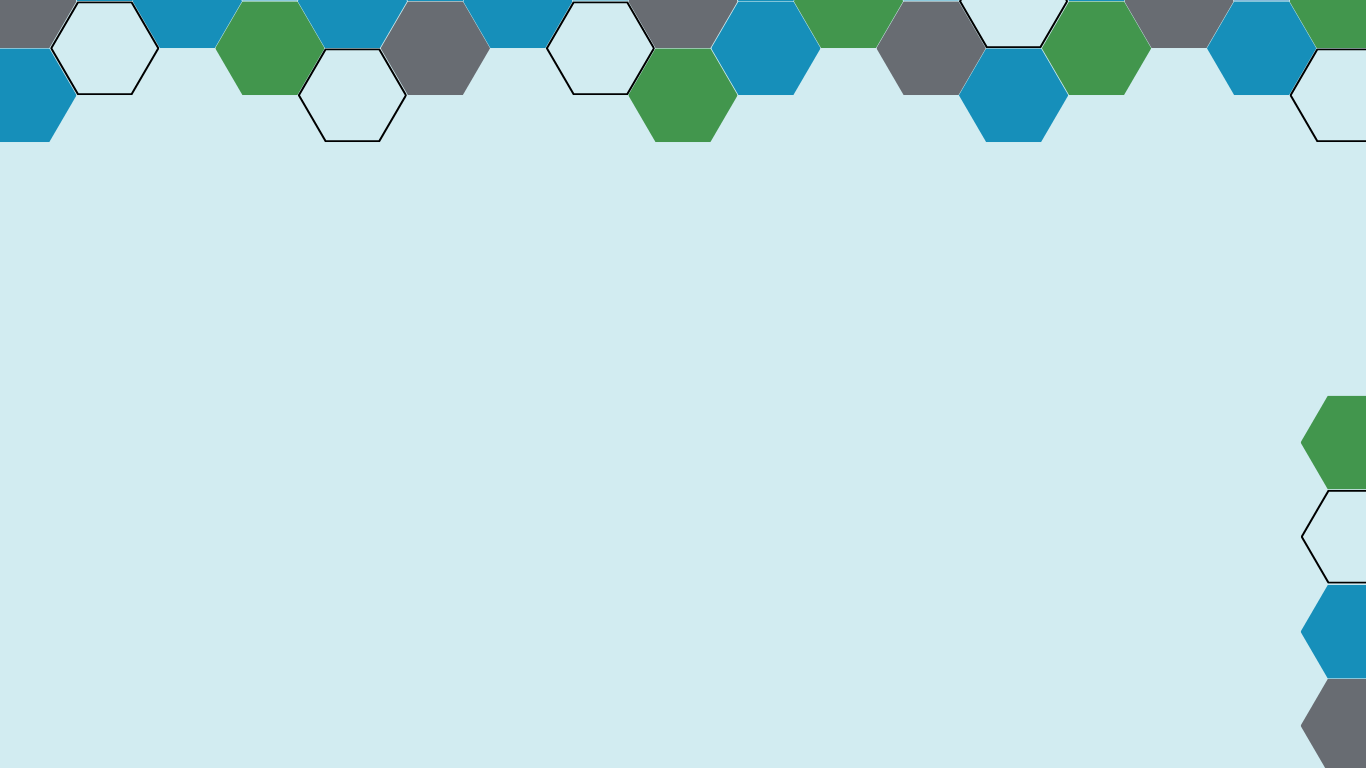
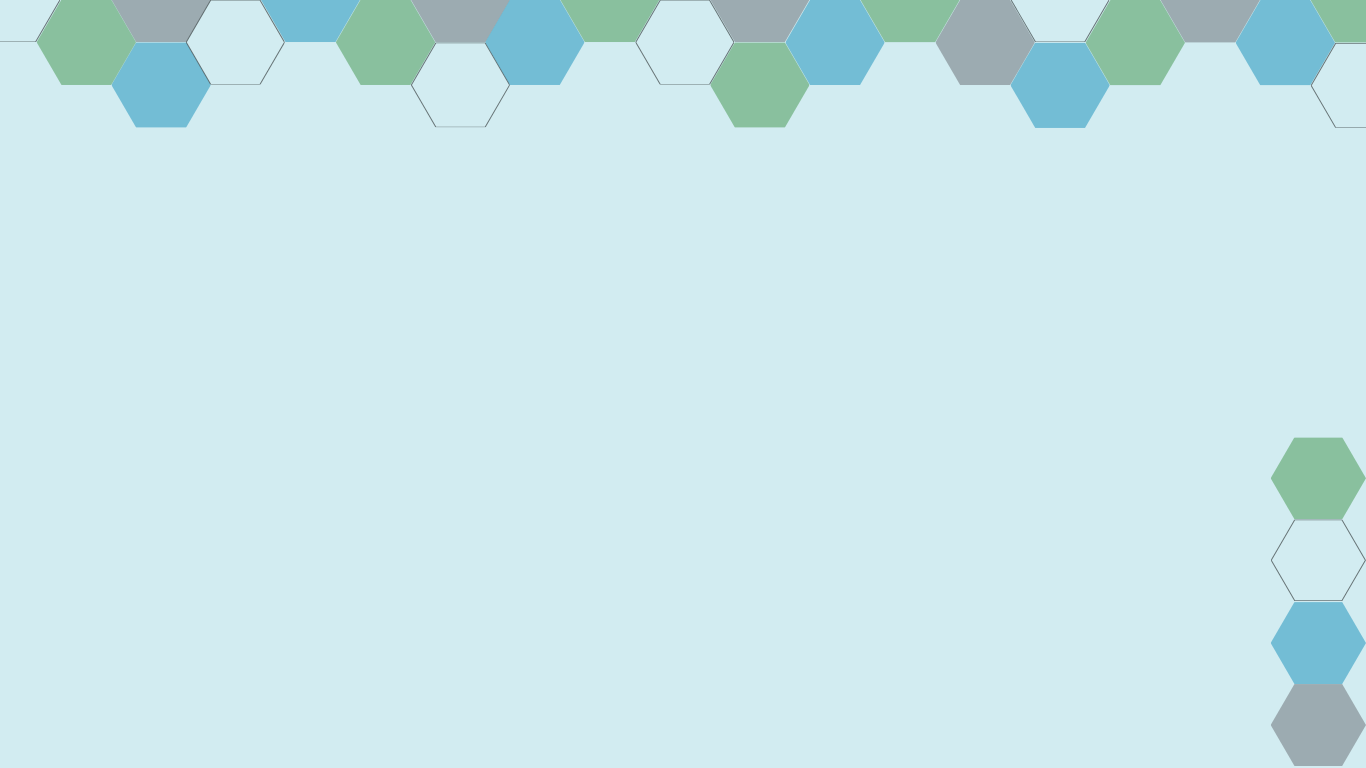
backgrounds changes

diff --git a/src/db/db.js b/src/db/db.js
@@ -162,29 +162,29 @@ const db = [
       "A 5 minutos de la Escuela de Estudios Superiores de Totolapan (UAEM) Calles de 8 metros"
 
   },
-  {
-    nombre: "Valle Verde",
-    municipio: "Totoloapan",
-    estado: "Morelos",
-    metrosCuadrados: [200],
-    costoPorMetroCuadrado: 900,
-    tipoEscritura: "Privada",
-    precio: 180000,
-    descripcion:
-      'Gran oportunidad de inversión en nuestros lotes de nombre "Valle Verde" ubicados en el municipio de Totoloapan, Estado de Morelos.Estos terrenos rústicos ofrecen un potencial prometedor para el futuro.El costo por metro cuadrado es de 900 pesos, con facilidades de pago.El enganche es del 30%, ofrecemos opciones de financiamiento a 12, 24 y 36 meses sin intereses.Aprovecha esta oportunidad para tener tu casa de vacaciones, tu nuevo hogar o incluso una nueva fuente de ingresos.',
+  // {
+  //   nombre: "Valle Verde",
+  //   municipio: "Totoloapan",
+  //   estado: "Morelos",
+  //   metrosCuadrados: [200],
+  //   costoPorMetroCuadrado: 900,
+  //   tipoEscritura: "Privada",
+  //   precio: 180000,
+  //   descripcion:
+  //     'Gran oportunidad de inversión en nuestros lotes de nombre "Valle Verde" ubicados en el municipio de Totoloapan, Estado de Morelos.Estos terrenos rústicos ofrecen un potencial prometedor para el futuro.El costo por metro cuadrado es de 900 pesos, con facilidades de pago.El enganche es del 30%, ofrecemos opciones de financiamiento a 12, 24 y 36 meses sin intereses.Aprovecha esta oportunidad para tener tu casa de vacaciones, tu nuevo hogar o incluso una nueva fuente de ingresos.',
 
-    servicios: {
-      electricidad: false
-    },
-    coordenadas: [18.979909, -98.951170],
-    enganche: 54000,
-    mensualidades: [12, 24, 36],
-    id: 7,
-    imagenes: ['https://res.cloudinary.com/dod4a1pxx/image/upload/v1706748082/setroc/terrenos/valle/fv9qm6bfqven0nk5eq4x.png', 'https://res.cloudinary.com/dod4a1pxx/image/upload/v1706748081/setroc/terrenos/valle/gooxby4kt6yrxtlhsqwn.png', 'https://res.cloudinary.com/dod4a1pxx/image/upload/v1706748081/setroc/terrenos/valle/n6ydhoo3spjhqhehsbti.png', 'https://res.cloudinary.com/dod4a1pxx/image/upload/v1706748081/setroc/terrenos/valle/erahkgfiywi2lgfi7dzy.png'],
-    amenidades: "A 5 minutos de la Escuela de Estudios Superiores de Totolapan(UAEM), A 1 hora con 30 minutos de CDMX, Calles de 8 metros"
+  //   servicios: {
+  //     electricidad: false
+  //   },
+  //   coordenadas: [18.979909, -98.951170],
+  //   enganche: 54000,
+  //   mensualidades: [12, 24, 36],
+  //   id: 7,
+  //   imagenes: ['https://res.cloudinary.com/dod4a1pxx/image/upload/v1706748082/setroc/terrenos/valle/fv9qm6bfqven0nk5eq4x.png', 'https://res.cloudinary.com/dod4a1pxx/image/upload/v1706748081/setroc/terrenos/valle/gooxby4kt6yrxtlhsqwn.png', 'https://res.cloudinary.com/dod4a1pxx/image/upload/v1706748081/setroc/terrenos/valle/n6ydhoo3spjhqhehsbti.png', 'https://res.cloudinary.com/dod4a1pxx/image/upload/v1706748081/setroc/terrenos/valle/erahkgfiywi2lgfi7dzy.png'],
+  //   amenidades: "A 5 minutos de la Escuela de Estudios Superiores de Totolapan(UAEM), A 1 hora con 30 minutos de CDMX, Calles de 8 metros"
 
 
-  },
+  // },
   {
     nombre: "Zacanco",
     municipio: "Ahuatlan",

diff --git a/src/pages/contactanos/Contacto.jsx b/src/pages/contactanos/Contacto.jsx
@@ -1,17 +1,17 @@
-import React from "react";
 import TextFieldComponent from "../../components/styledComponents/textfield/TextfieldComponent";
 import { Button, FormControl } from "@mui/material";
 import TextAreaComponent from "../../components/styledComponents/textfield/TextareaComponent";
+import './Contacto.css'
 
 const ContactoPage = () => {
   return (
     <div className="w-full flex h-full flex-col">
       <div className="opacity-75 w-full">
-        <div className="h-80 w-full bg-p1"></div>
+        <div className="h-80 w-full panel3"></div>
       </div>
 
       <div className="flex justify-center items-center h-full bg-p3 p-4">
-        <div className="flex flex-col justify-center bg-white p-6 md:p-12 gap-8 relative bottom-52">
+        <div className="flex flex-col justify-center panel4 p-6 md:p-12 gap-8 relative bottom-52">
           <div className="w-full flex flex-col justify-center items-center gap-6">
             <h1 className="font-afacad text-5xl">Contactanos</h1>
             <h1 className="font-afacad text-xl">

diff --git a/src/pages/landing/LandingPage.jsx b/src/pages/landing/LandingPage.jsx
@@ -1,6 +1,5 @@
 import "./LandingPage.css";
-import SelectComponent from "../../components/styledComponents/select/SelectComponent";
-import { Button, FormControl, Slider } from "@mui/material";
+import { Button, Slider } from "@mui/material";
 import CardsComponent from "../../components/pageComponents/CardsComponent/CardsComponent";
 import TextFieldComponent from "../../components/styledComponents/textfield/TextfieldComponent";
 import TextAreaComponent from "../../components/styledComponents/textfield/TextareaComponent";
@@ -150,7 +149,7 @@ export const LandingPage = () => {
           <p className="font-afacad text-center text-4xl md:text-5xl p-4">Tu única tarea es soñar, nosotros lo hacemos realidad.</p>
           <p className="font-afacad text-center text-4xl md:text-5xl p-4">¡Encuentra tu próximo hogar!</p>
         </div>
-        <div className="z-50 p-2 md:p-16 mt-72 md:mt-40">
+        <div className="z-50 p-2 md:p-16 mt-72 md:mt-40 ">
           <CardsComponent />
 
         </div>

diff --git a/src/components/pageComponents/CardsComponent/CardsComponent.jsx b/src/components/pageComponents/CardsComponent/CardsComponent.jsx
@@ -45,7 +45,7 @@ const terrenos2 = db.map(elemento => {
     )
 }).slice(4,6)
   return (
-    <div className="w-full flex flex-col gap-12 ">
+    <div className="w-full flex flex-col gap-12">
         <div className="w-full gap-12 flex flex-col items-center justify-between md:grid md:grid-cols-3 md:col-span-1 place-items-center md:gap-12 ">
             {terrenos}
         </div>

diff --git a/src/pages/contactanos/Contacto.css b/src/pages/contactanos/Contacto.css
@@ -1,0 +1,13 @@
+.panel3{
+    @apply
+    bg-[url('../../assets/1.png')]
+    bg-cover
+    bg-top
+  }
+
+  .panel4{
+    @apply
+    bg-[url('../../assets/6.png')]
+    bg-cover
+    
+  }

diff --git a/src/pages/landing/LandingPage.css b/src/pages/landing/LandingPage.css
@@ -75,3 +75,11 @@
   bg-bottom
   bg-no-repeat
 }
+
+.panel2{
+  @apply
+  bg-[url('../../assets/5.png')]
+  bg-cover
+  bg-center
+  
+}
